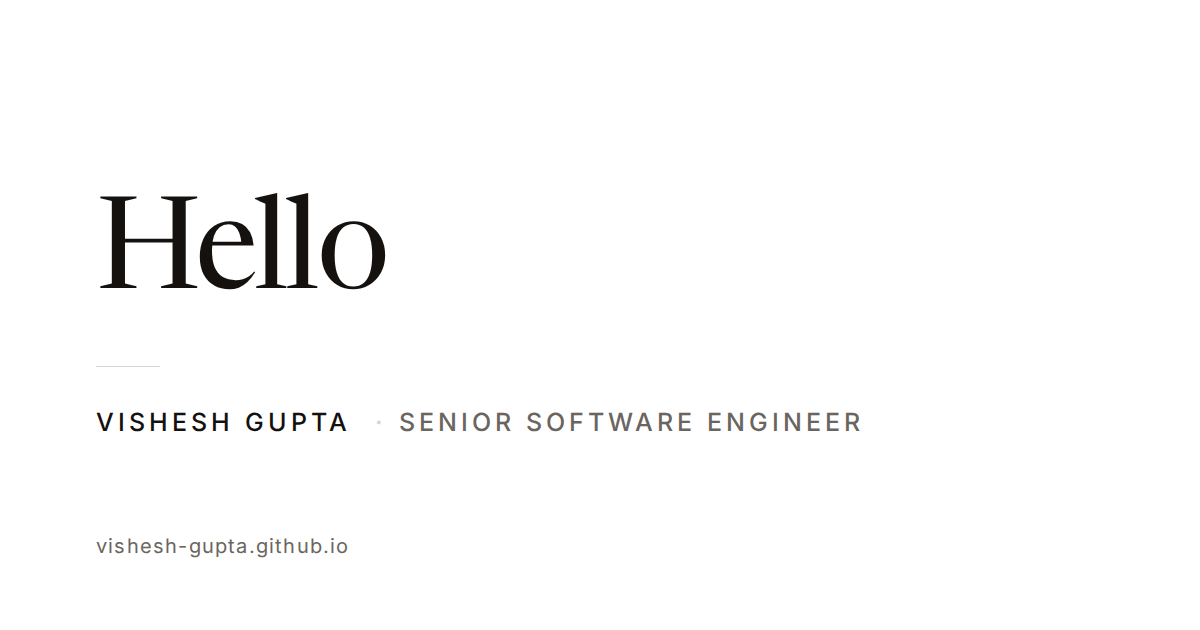
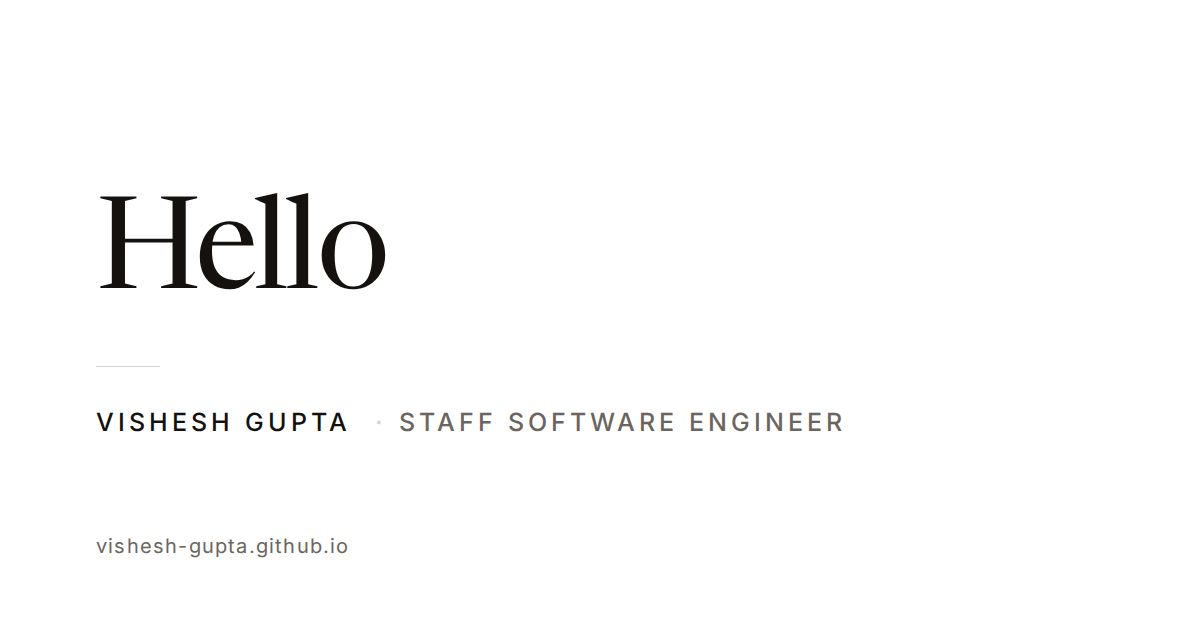
Update the role to Staff Software Engineer (#14)

Changed region(s): [[0.3392, 0.6333, 0.7092, 0.6937]]

diff --git a/index.html b/index.html
@@ -6,7 +6,7 @@
     <title>Vishesh Gupta</title>
     <meta
       name="description"
-      content="Vishesh Gupta — senior software engineer working on the infrastructure under trading systems."
+      content="Vishesh Gupta — staff software engineer working on the infrastructure under trading systems."
     />
     <meta name="color-scheme" content="light dark" />
     <meta name="theme-color" media="(prefers-color-scheme: light)" content="#ffffff" />
@@ -32,7 +32,7 @@
     <meta property="og:title" content="Vishesh Gupta" />
     <meta
       property="og:description"
-      content="Senior software engineer working on the infrastructure under trading systems."
+      content="Staff software engineer working on the infrastructure under trading systems."
     />
     <meta property="og:url" content="https://vishesh-gupta.github.io" />
     <meta property="og:image" content="https://vishesh-gupta.github.io/og.png" />
@@ -40,14 +40,14 @@
     <meta property="og:image:height" content="630" />
     <meta
       property="og:image:alt"
-      content="Hello — Vishesh Gupta, Senior Software Engineer"
+      content="Hello — Vishesh Gupta, Staff Software Engineer"
     />
 
     <meta name="twitter:card" content="summary_large_image" />
     <meta name="twitter:title" content="Vishesh Gupta" />
     <meta
       name="twitter:description"
-      content="Senior software engineer working on the infrastructure under trading systems."
+      content="Staff software engineer working on the infrastructure under trading systems."
     />
     <meta name="twitter:image" content="https://vishesh-gupta.github.io/og.png" />
   </head>

diff --git a/src/components/Bio.tsx b/src/components/Bio.tsx
@@ -43,7 +43,7 @@ const Bio: FC = () => {
       </p>
 
       <p className="bio">
-        I&rsquo;m a senior software engineer working on the infrastructure under trading
+        I&rsquo;m a staff software engineer working on the infrastructure under trading
         systems &mdash; clearing integrations, network interconnects, and the tooling
         teams use to ship against them. Currently at {at('Alpaca')}; previously infra
         lead at {at('Monoceros')}, and before that {at('Clear Street')}. I studied

diff --git a/tools/og-card.html b/tools/og-card.html
@@ -60,7 +60,7 @@
   <body>
     <div class="hello">Hello</div>
     <div class="rule"></div>
-    <div class="name">Vishesh Gupta <span class="dot">·</span><span class="role">Senior Software Engineer</span></div>
+    <div class="name">Vishesh Gupta <span class="dot">·</span><span class="role">Staff Software Engineer</span></div>
     <div class="foot">vishesh-gupta.github.io</div>
   </body>
 </html>

diff --git a/src/site.ts b/src/site.ts
@@ -1,7 +1,7 @@
 // Single place to edit the content of the site.
 
 export const NAME = 'Vishesh Gupta'
-export const ROLE = 'Senior Software Engineer'
+export const ROLE = 'Staff Software Engineer'
 
 export const RESUME_URL = '/resume.pdf'
 
